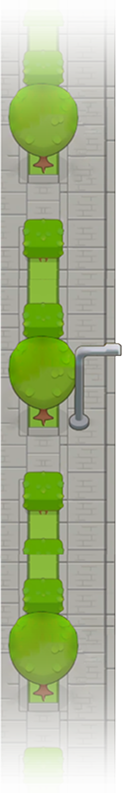
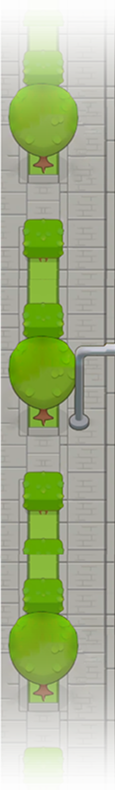
fix line in road

diff --git a/assets/js/road-lanes.js b/assets/js/road-lanes.js
@@ -106,11 +106,31 @@ export class RoadLanes {
       lane.style.left = `${currentX}px`
       lane.style.width = `${laneWidth}px`
       
-      // Remove border from last visible lane
-      if (index === this.visibleLaneCount - 1) {
+      // Create custom dashed border through JS
+      if (index === 0 || index === this.visibleLaneCount - 1) {
+        // First and last visible lane - no border
         lane.style.borderRight = 'none'
+        lane.style.backgroundImage = 'none'
       } else {
-        lane.style.borderRight = '2px dashed rgba(255, 255, 255, 0.6)'
+        // Calculate dash parameters based on lane width
+        const dashThickness = laneWidth / 30  // толщина в 30 раз меньше ширины полосы
+        const dashLength = dashThickness * 10  // длина в 10 раз больше толщины
+        const dashSpacing = dashLength / 2     // расстояние в 2 раза меньше длины
+        const totalCycle = dashLength + dashSpacing
+        
+        lane.style.borderRight = `${dashThickness}px solid transparent`
+        lane.style.backgroundImage = `
+          repeating-linear-gradient(
+            to bottom,
+            rgba(255, 255, 255, 0.6) 0,
+            rgba(255, 255, 255, 0.6) ${dashLength}px,
+            transparent ${dashLength}px,
+            transparent ${totalCycle}px
+          )
+        `
+        lane.style.backgroundPosition = 'right'
+        lane.style.backgroundSize = `${dashThickness}px 100%`
+        lane.style.backgroundRepeat = 'no-repeat'
       }
       
       currentX += laneWidth

diff --git a/index.html b/index.html
@@ -1,4 +1,4 @@
-Djghjc<!DOCTYPE html>
+<!DOCTYPE html>
 <html lang="en">
   <head>
     <meta charset="UTF-8" />
@@ -122,7 +122,9 @@ Djghjc<!DOCTYPE html>
             <div class="road-container">
               <div class="road-background"></div>
               <div class="road-lanes">
-                <div class="lane" data-lane="0"></div>
+                <div class="lane" data-lane="0">
+                  <img src="./assets/images/sidewalk.png" alt="" style="width: 100%; height: 100%; object-fit: cover;">
+                </div>
                 <div class="lane" data-lane="1"></div>
                 <div class="lane" data-lane="2"></div>
                 <div class="lane" data-lane="3"></div>

diff --git a/assets/css/pages.css b/assets/css/pages.css
@@ -476,6 +476,10 @@
 }
 
 /* Road Page Specific Styles */
+#roadPage {
+  background-color: #6E6966;
+}
+
 #roadPage .main-box {
   margin: 0;
   padding: 0;
@@ -546,6 +550,7 @@
   align-items: center;
   justify-content: space-around;
   background-color: rgba(59, 65, 80, 0.8);
+  width: 100dvw;
   padding: 20px;
   z-index: 50;
   height: 10dvh; /* Desktop default */
@@ -634,9 +639,9 @@
 .lane {
   position: absolute;
   height: 100%;
-  border-right: 2px dashed rgba(255, 255, 255, 0.6);
   pointer-events: none;
 }
+
 
 #roadPage.page-entering .lane {
   animation: laneFade 0.4s ease-out forwards;

diff --git a/assets/js/image-preloader.js b/assets/js/image-preloader.js
@@ -33,6 +33,7 @@ export class ImagePreloader {
       './images/chicken-part2.png',
       './images/chicken-part3.png',
       './images/spark.png',
+      './assets/images/sidewalk.png',
       './images/button3-header.png',
       
       // Region-specific images (now all in root images folder)
